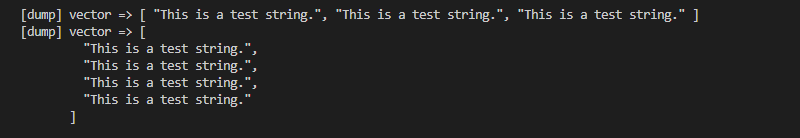
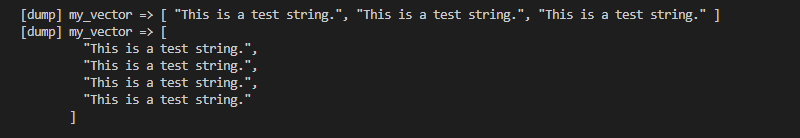
improve README.md

Changed region(s): [[0.0625, 0.058, 0.9062, 0.1739], [0.0625, 0.2029, 0.2188, 0.2899]]

diff --git a/readme/supports-various-types.cpp b/readme/supports-various-types.cpp
@@ -14,51 +14,51 @@
 #include "../dump.hpp"
 
 int main() {
-  int a          = 15;
-  int *ptr       = &a;
-  void *void_ptr = &a;
-  std::vector<std::vector<int>> vector{{3, 5, 8, 9, 7}, {9, 3, 2, 3, 8}};
-  std::set<char> set{'A', 'p', 'p', 'l', 'e'};
-  std::map<int, int> map{{2, 6}, {4, 6}, {5, 3}};
-  std::multiset<char> multiset{'A', 'p', 'p', 'l', 'e'};
-  std::multimap<int, int> multimap{{2, 4}, {4, 6}, {5, 3}, {4, 7}};
-  std::pair<int, char> pair{8, 'a'};
-  std::tuple<int, double, std::string> tuple{7, 4.5, "This is a string."};
-  std::queue<int> queue;
-  std::priority_queue<int> pq;
-  std::stack<int> stack;
-  for (auto v : {1, 2, 3, 4, 5}) queue.push(v), pq.push(v), stack.push(v);
-  std::bitset<8> bitset(0x3a);
-  std::complex<double> complex{1.0, 1.0};
-  std::optional<int> optional{15};
-  std::variant<int, std::string> variant{"1"};
-  std::vector<std::pair<int, std::string>> vector_of_pair{{1, "apple"}, {3, "banana"}};
+  int my_int     = 15;
+  int *ptr       = &my_int;
+  void *void_ptr = &my_int;
+  std::vector<std::vector<int>> my_vector{{3, 5, 8, 9, 7}, {9, 3, 2, 3, 8}};
+  std::set<char> my_set{'A', 'p', 'p', 'l', 'e'};
+  std::map<int, int> my_map{{2, 6}, {4, 6}, {5, 3}};
+  std::multiset<char> my_multiset{'A', 'p', 'p', 'l', 'e'};
+  std::multimap<int, int> my_multimap{{2, 4}, {4, 6}, {5, 3}, {4, 7}};
+  std::pair<int, char> my_pair{8, 'a'};
+  std::tuple<int, double, std::string> my_tuple{7, 4.5, "This is a string."};
+  std::queue<int> my_queue;
+  std::priority_queue<int> my_priority_queue;
+  std::stack<int> my_stack;
+  for (auto v : {1, 2, 3, 4, 5}) my_queue.push(v), my_priority_queue.push(v), my_stack.push(v);
+  std::bitset<8> my_bitset(0x3a);
+  std::complex<double> my_complex{1.0, 1.0};
+  std::optional<int> my_optional{15};
+  std::variant<int, std::string> my_variant{"1"};
+  std::vector<std::pair<int, std::string>> vector_of_pairs{{1, "apple"}, {3, "banana"}};
 
   std::clog << "\n// Basic Type" << std::endl;
-  CPP_DUMP(false, 0, 0.0, '0'), CPP_DUMP(true, 3.14, a, 9265);
+  CPP_DUMP(false, 0, 0.0, '0'), CPP_DUMP(true, 3.14, my_int, 9265);
   CPP_DUMP("This is a string."), CPP_DUMP(ptr, void_ptr, nullptr);
 
   std::clog << "\n// Container" << std::endl;
-  CPP_DUMP(vector);
+  CPP_DUMP(my_vector);
 
   std::clog << "\n// Set/Map" << std::endl;
-  CPP_DUMP(set), CPP_DUMP(map);
+  CPP_DUMP(my_set), CPP_DUMP(my_map);
 
   std::clog << "\n// Multiset/Multimap" << std::endl;
-  CPP_DUMP(multiset), CPP_DUMP(multimap);
+  CPP_DUMP(my_multiset), CPP_DUMP(my_multimap);
 
   std::clog << "\n// Tuple" << std::endl;
-  CPP_DUMP(tuple), CPP_DUMP(pair);
+  CPP_DUMP(my_tuple), CPP_DUMP(my_pair);
 
   std::clog << "\n// FIFO/LIFO" << std::endl;
-  CPP_DUMP(queue), CPP_DUMP(pq), CPP_DUMP(stack);
+  CPP_DUMP(my_queue), CPP_DUMP(my_priority_queue), CPP_DUMP(my_stack);
 
   std::clog << "\n// Other" << std::endl;
-  CPP_DUMP(bitset), CPP_DUMP(complex);
-  CPP_DUMP(optional, std::nullopt), CPP_DUMP(variant);
+  CPP_DUMP(my_bitset), CPP_DUMP(my_complex);
+  CPP_DUMP(my_optional, std::nullopt), CPP_DUMP(my_variant);
 
   std::clog << "\n// Combination" << std::endl;
-  CPP_DUMP(vector_of_pair);
+  CPP_DUMP(vector_of_pairs);
 
   std::clog << std::endl;
 }

diff --git a/readme/auto-indent.cpp b/readme/auto-indent.cpp
@@ -9,11 +9,12 @@ int main() {
 
   cpp_dump::max_line_width = 100;
 
-  std::vector vector{"This is a test string.", "This is a test string.", "This is a test string."};
-  CPP_DUMP(vector);
+  std::vector my_vector{
+      "This is a test string.", "This is a test string.", "This is a test string."};
+  CPP_DUMP(my_vector);
 
-  vector.push_back("This is a test string.");
-  CPP_DUMP(vector);
+  my_vector.push_back("This is a test string.");
+  CPP_DUMP(my_vector);
 
   std::clog << std::endl;
 }

diff --git a/readme/user-defined-enum.cpp b/readme/user-defined-enum.cpp
@@ -3,14 +3,14 @@
 
 #include "../dump.hpp"
 
-enum class my_enum { a, b, c };
-CPP_DUMP_DEFINE_EXPORT_ENUM(my_enum, my_enum::a, my_enum::b, my_enum::c);
+enum class enum_A { a, b, c };
+CPP_DUMP_DEFINE_EXPORT_ENUM(enum_A, enum_A::a, enum_A::b, enum_A::c);
 
 int main() {
   std::clog << std::endl;
 
-  my_enum new_my_enum = my_enum::c;
-  CPP_DUMP(new_my_enum);
+  enum_A my_enum_A = enum_A::c;
+  CPP_DUMP(my_enum_A);
 
   std::clog << std::endl;
 }

diff --git a/readme/user-defined-class.cpp b/readme/user-defined-class.cpp
@@ -3,17 +3,17 @@
 
 #include "../dump.hpp"
 
-struct my_class {
+struct class_A {
   int i;
   std::string str() const { return std::to_string(i); }
 };
-CPP_DUMP_DEFINE_EXPORT_OBJECT(my_class, i, str());
+CPP_DUMP_DEFINE_EXPORT_OBJECT(class_A, i, str());
 
 int main() {
   std::clog << std::endl;
 
-  my_class new_my_class{10};
-  CPP_DUMP(new_my_class);
+  class_A my_class_A{10};
+  CPP_DUMP(my_class_A);
 
   std::clog << std::endl;
 }

diff --git a/readme/function-version.cpp b/readme/function-version.cpp
@@ -7,8 +7,8 @@
 int main() {
   std::clog << std::endl;
 
-  std::vector<std::vector<int>> vector{{3, 5, 8, 9, 7}, {9, 3, 2, 3, 8}};
-  cpp_dump::dump(vector);
+  std::vector<std::vector<int>> my_vector{{3, 5, 8, 9, 7}, {9, 3, 2, 3, 8}};
+  cpp_dump::dump(my_vector);
 
   std::clog << std::endl;
 }

diff --git a/readme/macro-version.cpp b/readme/macro-version.cpp
@@ -7,8 +7,8 @@
 int main() {
   std::clog << std::endl;
 
-  std::vector<std::vector<int>> vector{{3, 5, 8, 9, 7}, {9, 3, 2, 3, 8}};
-  CPP_DUMP(vector);
+  std::vector<std::vector<int>> my_vector{{3, 5, 8, 9, 7}, {9, 3, 2, 3, 8}};
+  CPP_DUMP(my_vector);
 
   std::clog << std::endl;
 }

diff --git a/README.md b/README.md
@@ -24,8 +24,8 @@ cpp-dump has a macro version and a function version of dump functions.
 This macro dumps variable(s) along with expression(s). [See Full Example Code](./readme/macro-version.cpp)
 
 ```cpp
-std::vector<std::vector<int>> vector{{3, 5, 8, 9, 7}, {9, 3, 2, 3, 8}};
-CPP_DUMP(vector);
+std::vector<std::vector<int>> my_vector{{3, 5, 8, 9, 7}, {9, 3, 2, 3, 8}};
+CPP_DUMP(my_vector);
 ```
 
 ![macro-version.png](./readme/macro-version.png)
@@ -35,8 +35,8 @@ CPP_DUMP(vector);
 This function simply dumps variable(s). [See Full Example Code](./readme/function-version.cpp)
 
 ```cpp
-std::vector<std::vector<int>> vector{{3, 5, 8, 9, 7}, {9, 3, 2, 3, 8}};
-cpp_dump::dump(vector);
+std::vector<std::vector<int>> my_vector{{3, 5, 8, 9, 7}, {9, 3, 2, 3, 8}};
+cpp_dump::dump(my_vector);
 ```
 
 ![function-version.png](./readme/function-version.png)
@@ -51,31 +51,32 @@ Both dump functions have the following features.
 [See Full Example Code](./readme/supports-various-types.cpp)
 
 ```cpp
+// See the full example code for the definitions of the variables.
 std::clog << "\n// Basic Type" << std::endl;
-CPP_DUMP(false, 0, 0.0, '0'); CPP_DUMP(true, 3.14, a, 9265);
+CPP_DUMP(false, 0, 0.0, '0'); CPP_DUMP(true, 3.14, my_int, 9265);
 CPP_DUMP("This is a string."); CPP_DUMP(ptr, void_ptr, nullptr);
 
 std::clog << "\n// Container" << std::endl;
-CPP_DUMP(vector);
+CPP_DUMP(my_vector);
 
 std::clog << "\n// Set/Map" << std::endl;
-CPP_DUMP(set); CPP_DUMP(map);
+CPP_DUMP(my_set); CPP_DUMP(my_map);
 
 std::clog << "\n// Multiset/Multimap" << std::endl;
-CPP_DUMP(multiset); CPP_DUMP(multimap);
+CPP_DUMP(my_multiset); CPP_DUMP(my_multimap);
 
 std::clog << "\n// Tuple" << std::endl;
-CPP_DUMP(tuple); CPP_DUMP(pair);
+CPP_DUMP(my_tuple); CPP_DUMP(pair);
 
 std::clog << "\n// FIFO/LIFO" << std::endl;
-CPP_DUMP(queue); CPP_DUMP(pq); CPP_DUMP(stack);
+CPP_DUMP(my_queue); CPP_DUMP(pq); CPP_DUMP(my_stack);
 
 std::clog << "\n// Other" << std::endl;
-CPP_DUMP(bitset); CPP_DUMP(complex);
-CPP_DUMP(optional, std::nullopt); CPP_DUMP(variant);
+CPP_DUMP(my_bitset); CPP_DUMP(my_complex);
+CPP_DUMP(my_optional, std::nullopt); CPP_DUMP(my_variant);
 
 std::clog << "\n// Combination" << std::endl;
-CPP_DUMP(vector_of_pair);
+CPP_DUMP(vector_of_pairs);
 ```
 
 ![supports-various-types.png](./readme/supports-various-types.png)
@@ -85,9 +86,9 @@ CPP_DUMP(vector_of_pair);
 Automatically indent so that the output does not exceed the maximum width. [See Full Example Code](./readme/auto-indent.cpp)
 
 ```cpp
-CPP_DUMP(vector);
-vector.push_back("This is a test string.");
-CPP_DUMP(vector);
+CPP_DUMP(my_vector);
+my_vector.push_back("This is a test string.");
+CPP_DUMP(my_vector);
 ```
 
 ![Auto indent](./readme/auto-indent.png)
@@ -100,15 +101,15 @@ CPP_DUMP(vector);
 
 ```cpp
 //  At top level
-struct my_class {
+struct class_A {
   int i;
   std::string str() const { return std::to_string(i); }
 };
-CPP_DUMP_DEFINE_EXPORT_OBJECT(my_class, i, str());
+CPP_DUMP_DEFINE_EXPORT_OBJECT(class_A, i, str());
 
 // In main() or some function
-my_class new_my_class{10};
-CPP_DUMP(new_my_class);
+class_A my_class_A{10};
+CPP_DUMP(my_class_A);
 ```
 
 ![user-defined-class.png](./readme/user-defined-class.png)
@@ -119,12 +120,12 @@ CPP_DUMP(new_my_class);
 
 ```cpp
 //  At top level
-enum class my_enum { a, b, c };
-CPP_DUMP_DEFINE_EXPORT_ENUM(my_enum, my_enum::a, my_enum::b, my_enum::c);
+enum class enum_A { a, b, c };
+CPP_DUMP_DEFINE_EXPORT_ENUM(enum_A, enum_A::a, enum_A::b, enum_A::c);
 
 // In main() or some function
-my_enum new_my_enum = my_enum::c;
-CPP_DUMP(new_my_enum);
+enum_A my_enum_A = enum_A::c;
+CPP_DUMP(my_enum_A);
 ```
 
 ![user-defined-enum.png](./readme/user-defined-enum.png)
